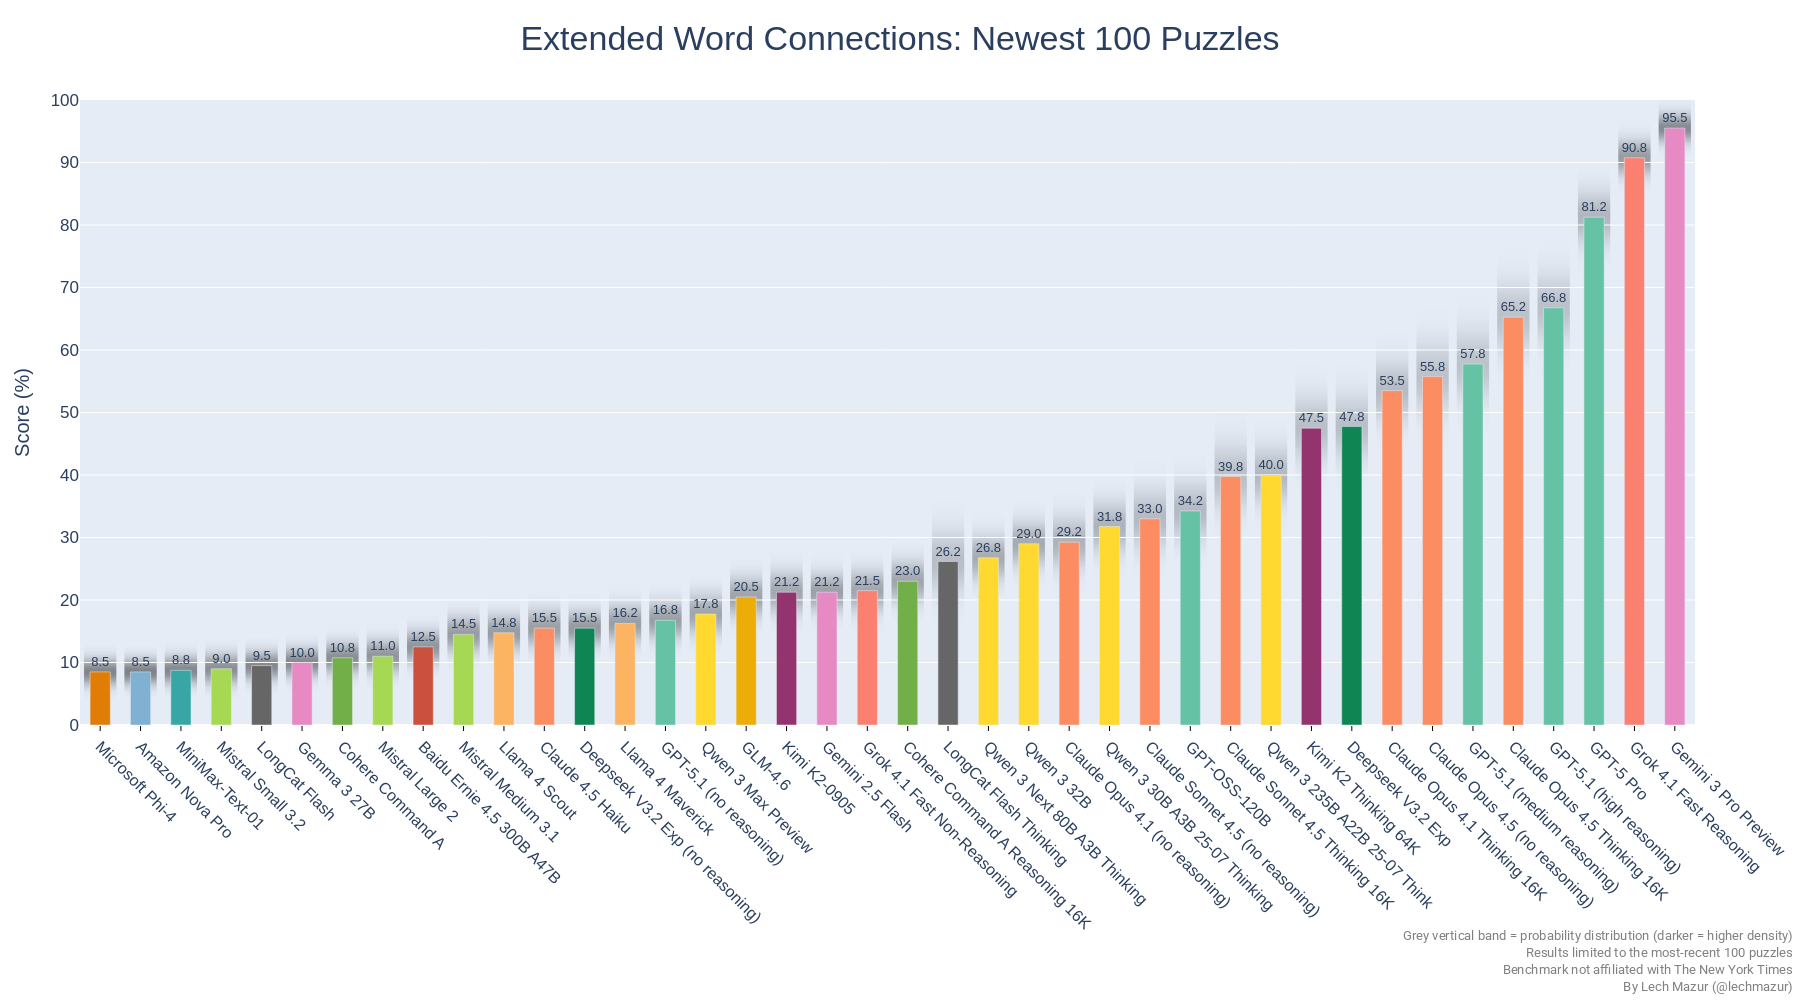
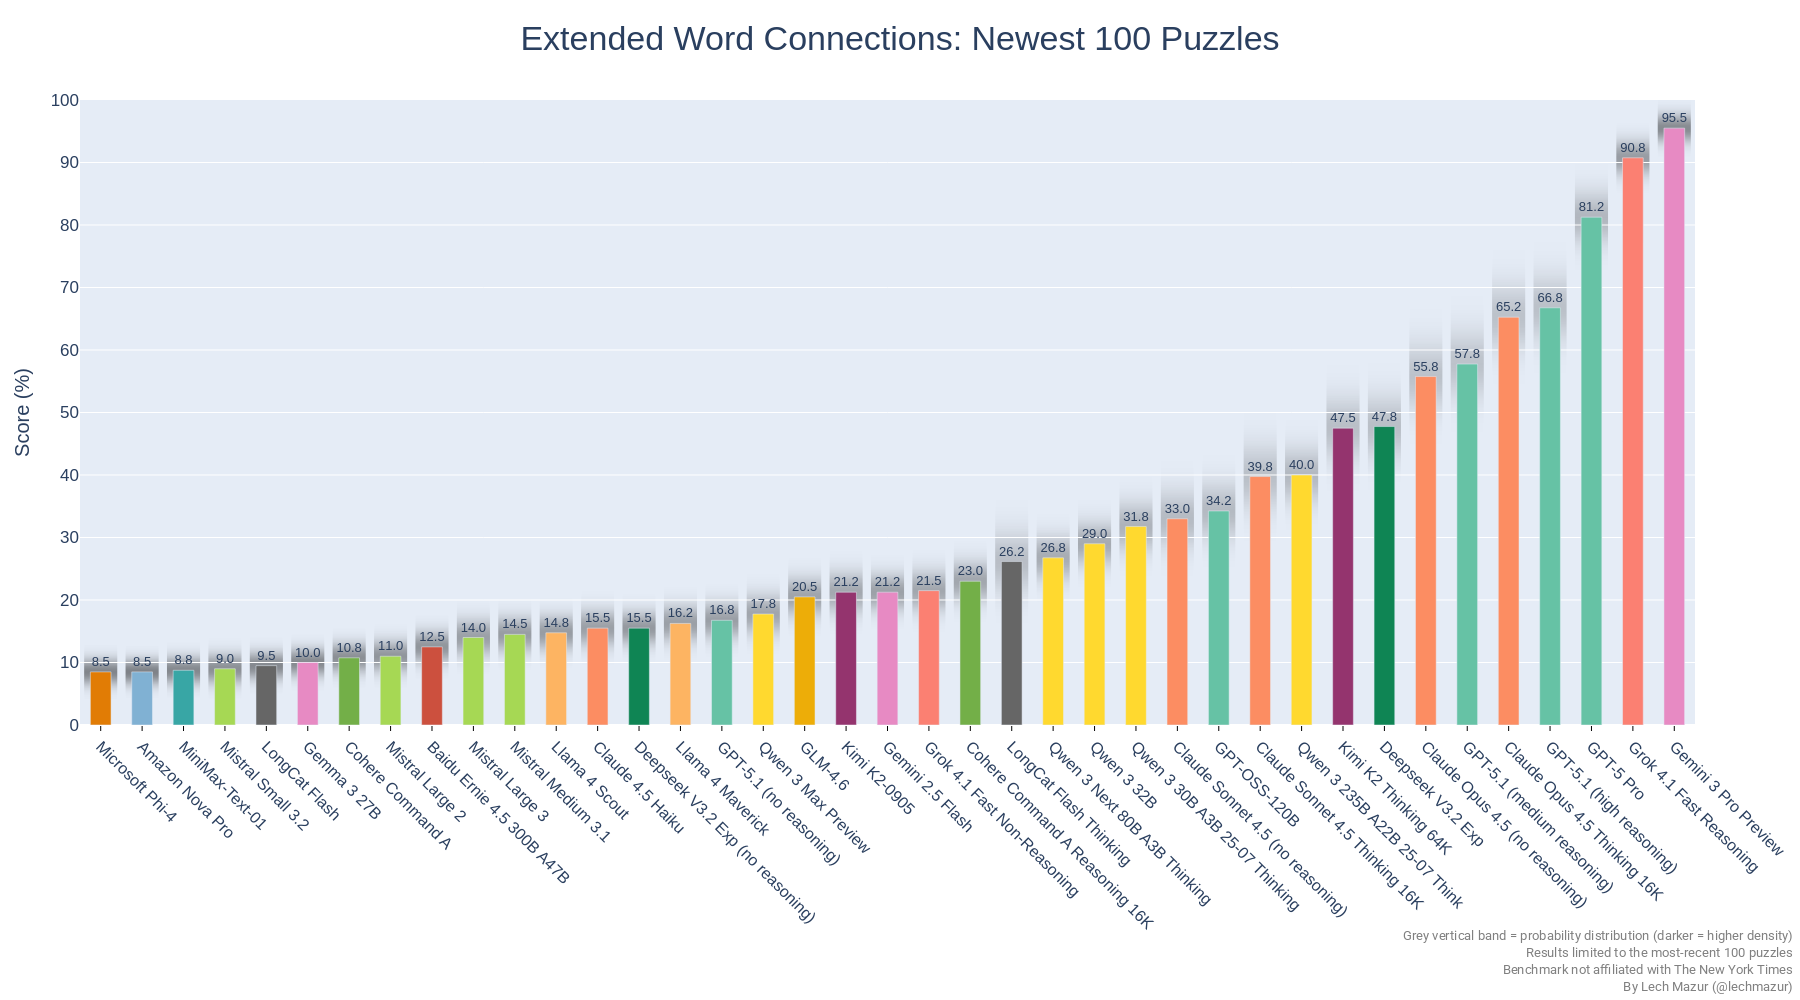
Mistral Large 3

Changed region(s): [[0.0622, 0.186, 0.9956, 0.93], [0.9022, 0.124, 0.9333, 0.155]]

diff --git a/README.md b/README.md
@@ -105,30 +105,31 @@ As of Feb 4, 2025, there is a new version of the benchmark. The standard NYT Con
 |91|Claude 3.5 Sonnet 2024-10-22|17.7|651|
 |92|Llama 4 Scout|17.4|759|
 |93|DeepSeek V3-0324|16.8|759|
-|94|Llama 3.1 405B|16.2|651|
-|95|Mistral Medium 3.1|15.2|759|
-|96|DeepSeek V3|15.1|651|
-|97|Llama 3.3 70B|15.1|651|
-|98|Baidu Ernie 4.5 300B A47B|14.8|759|
-|99|GPT-4.1 mini|14.4|759|
-|100|MiniMax-Text-01|13.8|759|
-|101|Cohere Command A|13.1|759|
-|102|Mistral Large 2|12.4|759|
-|103|Gemma 2 27B|12.2|651|
-|104|LongCat Flash|12.1|759|
-|105|Gemma 3 27B|11.6|759|
-|106|Mistral Medium 3|11.5|759|
-|107|Mistral Small 3.1|11.4|651|
-|108|Mistral Small 3.2|11.2|759|
-|109|Qwen 2.5 72B|10.5|759|
-|110|Claude 3.5 Haiku|10.0|759|
-|111|Amazon Nova Pro|9.9|759|
-|112|Microsoft Phi-4|9.9|759|
-|113|GPT-4o mini|9.7|759|
-|114|Mistral Small 3|8.9|601|
-|115|GPT-4.1 nano|8.1|759|
-|116|GLM4-32B-0414|7.6|759|
-|117|Claude 3 Haiku|2.2|601|
+|94|Mistral Large 3|16.8|759|
+|95|Llama 3.1 405B|16.2|651|
+|96|Mistral Medium 3.1|15.2|759|
+|97|DeepSeek V3|15.1|651|
+|98|Llama 3.3 70B|15.1|651|
+|99|Baidu Ernie 4.5 300B A47B|14.8|759|
+|100|GPT-4.1 mini|14.4|759|
+|101|MiniMax-Text-01|13.8|759|
+|102|Cohere Command A|13.1|759|
+|103|Mistral Large 2|12.4|759|
+|104|Gemma 2 27B|12.2|651|
+|105|LongCat Flash|12.1|759|
+|106|Gemma 3 27B|11.6|759|
+|107|Mistral Medium 3|11.5|759|
+|108|Mistral Small 3.1|11.4|651|
+|109|Mistral Small 3.2|11.2|759|
+|110|Qwen 2.5 72B|10.5|759|
+|111|Claude 3.5 Haiku|10.0|759|
+|112|Amazon Nova Pro|9.9|759|
+|113|Microsoft Phi-4|9.9|759|
+|114|GPT-4o mini|9.7|759|
+|115|Mistral Small 3|8.9|601|
+|116|GPT-4.1 nano|8.1|759|
+|117|GLM4-32B-0414|7.6|759|
+|118|Claude 3 Haiku|2.2|601|
 
 
 
@@ -240,6 +241,7 @@ This benchmark evaluates large language models (LLMs) using 436 NYT Connections 
 ---
 
 ## Updates
+- Dec 2, 2025: Mistral Large 3 added.
 - Nov 24, 2025: Claude Opus 4.5 added.
 - Nov 21, 2025: Grok 4.1 Fast added.
 - Nov 18, 2025: Gemini 3 Pro Preview, GPT 5.1 added
